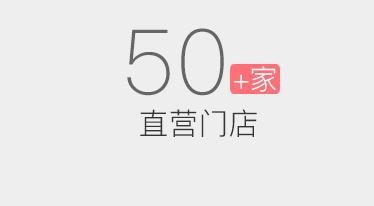
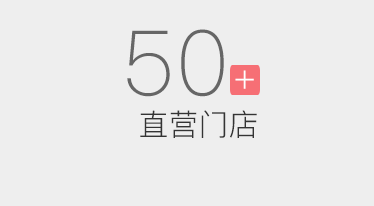
fuck!!!!!!!!

diff --git a/public/views/index/index.html b/public/views/index/index.html
@@ -54,21 +54,21 @@
 		</li>
 		<li class="l sec">
 			<div numA="numA1">
-				<div posAb="abs3">+家</div>
+				<div posAb="abs3">+</div>
 				<div numB="numB3">50</div>
 				<p pp="p">直营门店</p>
 			</div>			
 		</li>
 		<li class="l fou">
 			<div numA="numA1">
-				<div posAb="abs5">+名</div>
+				<div posAb="abs5">+</div>
 				<div numB="numB5">5,000</div>
 				<p pp="p">旗下月嫂</p>
 			</div>
 		</li>
 		<li class="l thr">
 			<div numA="numA1">
-				<div posAb="abs4">+户</div>
+				<div posAb="abs4">+</div>
 				<div numB="numB4">300,000</div>
 				<p pp="p">已服务家庭</p>
 			</div>			
@@ -149,7 +149,7 @@
 					<div class="zun"  opc="ai3">
 					<div class="he_n">
 						<p class="l">尊享型</p>
-						<p class="r">11,980元</p>
+						<p class="r">10,980元</p>
 					</div>	
 						<li><span></span>从事月嫂行业5年及以上，客户好评率高</li>
 						<!--<li style="margin-left:6px;"></li>-->

diff --git a/public/views/test/test.html b/public/views/test/test.html
@@ -107,7 +107,7 @@
 	      <li><img src="img/a3.png">
 	      	<div class="pri">
 	      		<p class="l">尊享型</p>
-	      		<p class="r">11,980元</p>
+	      		<p class="r">10,980元</p>
 	      	</div>	
 	      	<div class="listm">
 				<p><span></span>从事月嫂行业5年及以上，客户好评率高</p>
@@ -169,6 +169,7 @@
 	</div>			
 	</div>
 	<img src="img/liuc.png" style="width:15.36rem;margin:0 auto;"/>
+	<div class="guck_zixun"><a href="http://www.haoniangjia.cn/dialog_3.htm" style="color:#f66f75">立即咨询</a></div>
 	<img src="img/ditu.png" style="width:100%;"/>		
 
 </div>

diff --git a/public/views/index/index.css b/public/views/index/index.css
@@ -44,7 +44,7 @@
 #bandShow li [numB]{font-size:45px;line-height:45px;font-weight:400;margin-bottom: 10px;}
 #bandShow li  [posAb]{background:#ff696a;font-size:16px;border-radius: 3px;text-align:center;position:absolute;top:70px;color:#fff;}
 #bandShow li  [posAb="abs1"],[posAb="abs2"]{width:18px;}
-#bandShow li  [posAb="abs3"],[posAb="abs4"],[posAb="abs5"]{width:30px;}
+#bandShow li  [posAb="abs3"],[posAb="abs4"],[posAb="abs5"]{width:18px;}
 [posAb="abs1"]{left:150px;}
 [posAb="abs2"]{left:137px;}
 [posAb="abs3"]{left:150px;}

diff --git a/public/views/submit_phone/submit_phone.html b/public/views/submit_phone/submit_phone.html
@@ -17,7 +17,7 @@
 			</div>
 			<div class="subm">
 				<p>1. "<span>*</span>"为必填</p>
-				<div class="pmm2">2.亦蓁母婴承诺您的手机号码不会被泄露，请放心填写。</div>
+				<div class="pmm2">2.亦蓁母婴承诺您的个人信息不会被泄露，请放心填写。</div>
 				<div class="submitm l" ng-click="yuenima()" style="margin-top:3rem;">预约享好礼</div>
 			</div>
 			<div id="tijiao_yuyeu">

diff --git a/public/views/test/test.css b/public/views/test/test.css
@@ -96,3 +96,4 @@
 #footerg .foot-left a{color:#fff;}
 #footerg .foot-left{background:#999999;}
 #footerg .foot-right{background:#ff7177;}
+.guck_zixun{width:4.864rem;height:1.24rem;line-height:1.24rem;text-align:center;border:1px solid #f66f75;font-size:0.53rem;border-radius: 5px;margin:0 auto;margin-bottom:1.2rem;}
